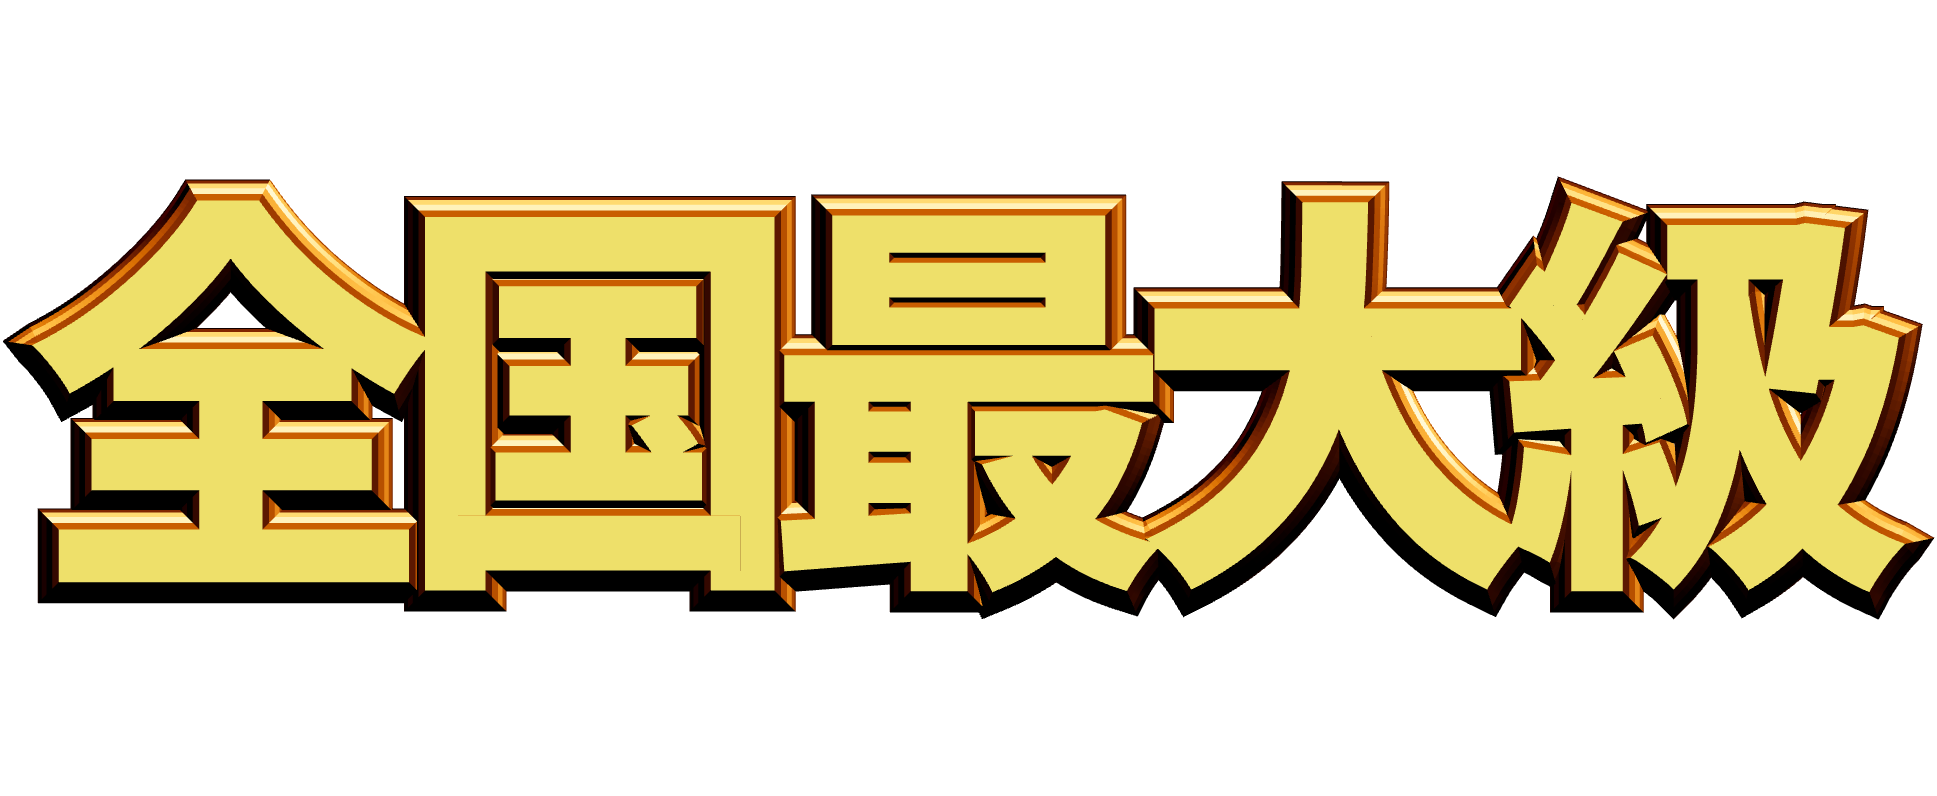
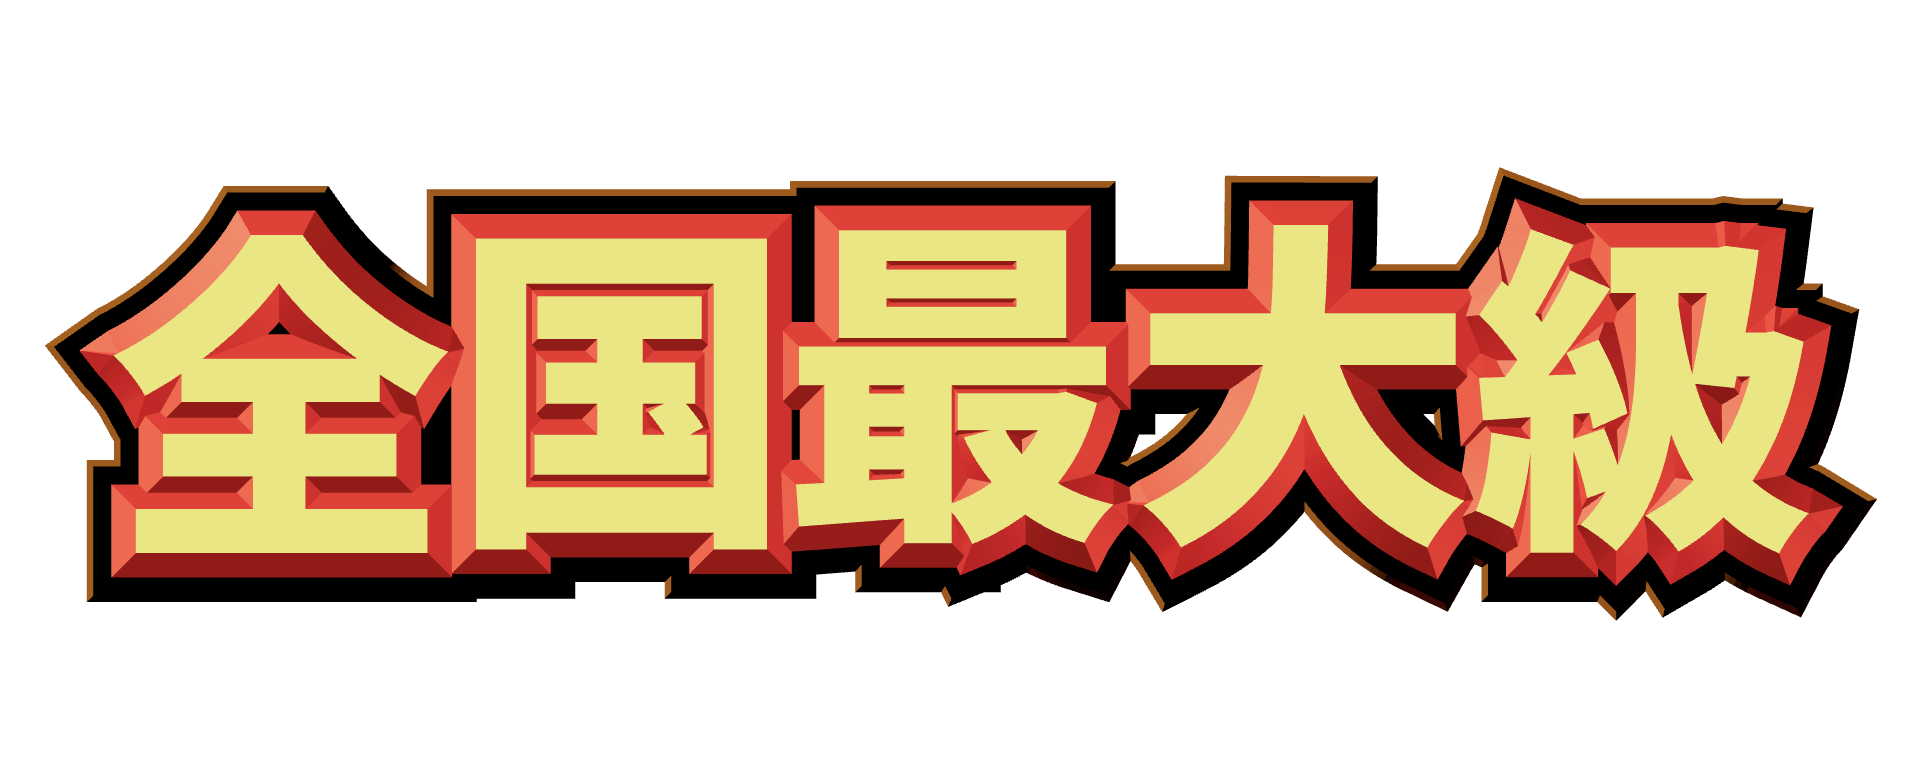
chore: サムネイルなど

diff --git a/app/page.tsx b/app/page.tsx
@@ -117,7 +117,7 @@ export default function Home() {
       },
     },
     {
-      name: "激熱！筆文字",
+      name: "激アツ！楷書",
       text: "激アツ",
       image: "/images/sample-kaisho.png",
       settings: {
@@ -572,7 +572,7 @@ export default function Home() {
                         : "bg-gray-200 text-gray-700 hover:bg-gray-300"
                     }`}
                   >
-                    縦書き（β）
+                    縦書き (β)
                   </button>
                 </div>
               </div>
@@ -595,7 +595,7 @@ export default function Home() {
 
               <div className="space-y-2">
                 <div className="block mb-2 text-sm font-medium">
-                  縁取りの色（層ごと） / Bevel Segment Colors
+                  縁取りの色 (β) / Bevel Segment Colors
                 </div>
                 {Array.from({ length: bevelSegments }).map((_, i) => (
                   <div key={i} className="flex items-center gap-2">
